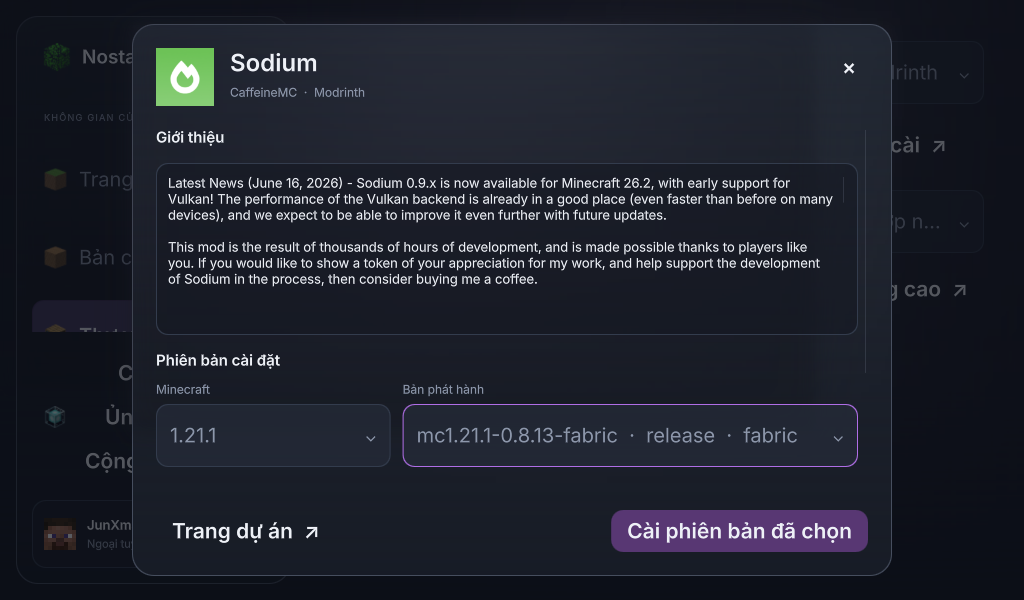
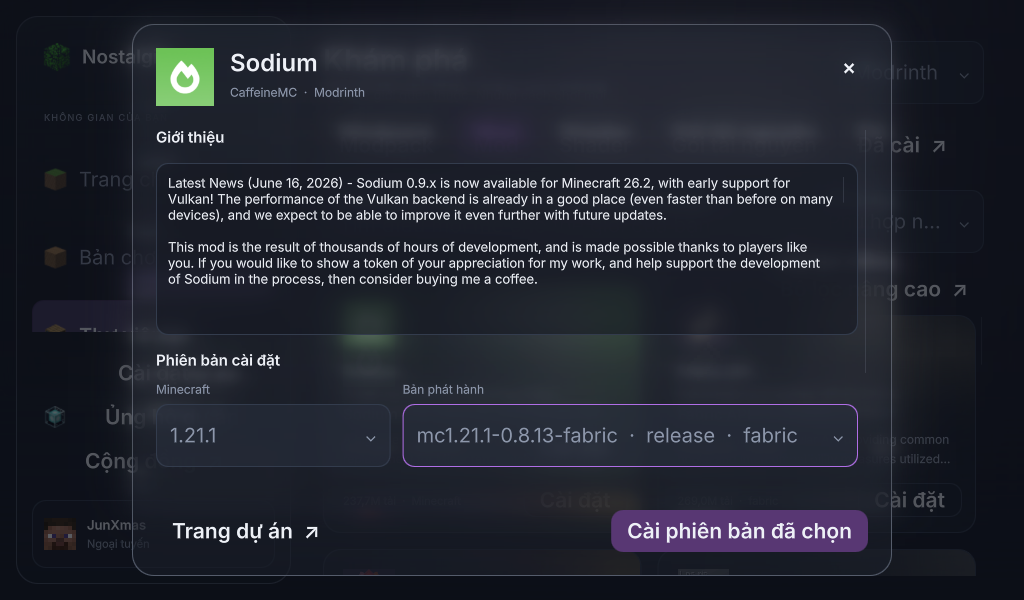
Add translucent scene mica to project preview popups

diff --git a/src/nostalgia/ui/qml/preview/MinimalPreview.qml b/src/nostalgia/ui/qml/preview/MinimalPreview.qml
@@ -25,55 +25,60 @@ Item {
         currentIndex = index;
         advancedLibrary = false;
     }
-    Ambient {
-        id: ambient
-        anchors.fill: parent
-        cinematic: root.loginVisible
-    }
     Item {
+        id: scene
+        objectName: "previewScene"
         anchors.fill: parent
-        visible: !root.loginVisible
-        Navigation {
-            id: navigation
-            objectName: "minimalNavigation"
-            anchors.top: parent.top
-            anchors.bottom: parent.bottom
-            anchors.left: parent.left
-            anchors.margins: 16
-            width: Math.min(275, 212 * Math.max(1, GlassTheme.scale * 0.9))
-            currentIndex: root.currentIndex
-            onNavigate: function (index) {
-                root.navigate(index);
-            }
+        Ambient {
+            id: ambient
+            anchors.fill: parent
+            cinematic: root.loginVisible
         }
-        Loader {
-            id: pages
-            objectName: "minimalPageLoader"
-            anchors.left: navigation.right
-            anchors.leftMargin: 32
-            anchors.right: parent.right
-            anchors.rightMargin: 40
-            anchors.top: parent.top
-            anchors.topMargin: 30
-            anchors.bottom: parent.bottom
-            anchors.bottomMargin: 24
-            source: {
-                if (root.currentIndex === 0)
-                    return "Home.qml";
-                if (root.currentIndex === 1)
-                    return "Instances.qml";
-                if (root.currentIndex === 2)
-                    return root.advancedLibrary ? "../pages/LibraryPage.qml" : "Library.qml";
-                return "../pages/" + ["HomePage.qml", "InstancesPage.qml", "LibraryPage.qml", "AccountsPage.qml", "MultiplayerPage.qml", "LogPage.qml", "SettingsPage.qml"][root.currentIndex];
-            }
-            Connections {
-                target: pages.item
-                ignoreUnknownSignals: true
-                function onNavigate(index) {
+        Item {
+            anchors.fill: parent
+            visible: !root.loginVisible
+            Navigation {
+                id: navigation
+                objectName: "minimalNavigation"
+                anchors.top: parent.top
+                anchors.bottom: parent.bottom
+                anchors.left: parent.left
+                anchors.margins: 16
+                width: Math.min(275, 212 * Math.max(1, GlassTheme.scale * 0.9))
+                currentIndex: root.currentIndex
+                onNavigate: function (index) {
                     root.navigate(index);
                 }
-                function onAdvancedRequested() {
-                    root.advancedLibrary = true;
+            }
+            Loader {
+                id: pages
+                objectName: "minimalPageLoader"
+                anchors.left: navigation.right
+                anchors.leftMargin: 32
+                anchors.right: parent.right
+                anchors.rightMargin: 40
+                anchors.top: parent.top
+                anchors.topMargin: 30
+                anchors.bottom: parent.bottom
+                anchors.bottomMargin: 24
+                source: {
+                    if (root.currentIndex === 0)
+                        return "Home.qml";
+                    if (root.currentIndex === 1)
+                        return "Instances.qml";
+                    if (root.currentIndex === 2)
+                        return root.advancedLibrary ? "../pages/LibraryPage.qml" : "Library.qml";
+                    return "../pages/" + ["HomePage.qml", "InstancesPage.qml", "LibraryPage.qml", "AccountsPage.qml", "MultiplayerPage.qml", "LogPage.qml", "SettingsPage.qml"][root.currentIndex];
+                }
+                Connections {
+                    target: pages.item
+                    ignoreUnknownSignals: true
+                    function onNavigate(index) {
+                        root.navigate(index);
+                    }
+                    function onAdvancedRequested() {
+                        root.advancedLibrary = true;
+                    }
                 }
             }
         }
@@ -92,6 +97,7 @@ Item {
     }
     ProjectDialog {
         id: projectDialog
+        backdrop: scene
         onCreateRequested: function (gameVersion, loaderKind) {
             projectDialog.close();
             createForProject.openDialog();

diff --git a/src/nostalgia/ui/qml/preview/Glass.qml b/src/nostalgia/ui/qml/preview/Glass.qml
@@ -6,21 +6,28 @@ Rectangle {
     default property alias content: holder.data
     property int padding: 24
     property bool frosted: true
+    property Item backdrop: GlassTheme.backdrop
+    property rect backdropRect: Qt.rect(0, 0, -1, -1)
+    property real blurOpacity: 0.60
+    property int blurRadius: 48
+    property real finishOpacity: 1
     readonly property bool shaderAvailable: GraphicsInfo.api !== GraphicsInfo.Software && GraphicsInfo.api !== GraphicsInfo.Unknown
     radius: 24
     color: GlassTheme.glassSurface
     border.width: 1
     border.color: GlassTheme.stroke
-    // Capture only the dedicated background, never the pane itself (no recursion).
+    // Nguồn phải nằm ngoài panel để không thu lại chính hiệu ứng kính.
     ShaderEffectSource {
         id: capture
         anchors.fill: parent
         visible: false
-        sourceItem: GlassTheme.backdrop
+        sourceItem: root.backdrop
         sourceRect: {
-            if (!GlassTheme.backdrop)
+            if (root.backdropRect.width >= 0)
+                return root.backdropRect;
+            if (!root.backdrop)
                 return Qt.rect(0, 0, 1, 1);
-            var p = root.mapToItem(GlassTheme.backdrop, 0, 0);
+            var p = root.mapToItem(root.backdrop, 0, 0);
             return Qt.rect(p.x, p.y, root.width, root.height);
         }
         textureSize: Qt.size(Math.max(1, root.width / 2), Math.max(1, root.height / 2))
@@ -33,12 +40,12 @@ Rectangle {
         visible: root.frosted && root.shaderAvailable
         source: capture
         blurEnabled: true
-        blurMax: 48
+        blurMax: root.blurRadius
         blur: 0.8
         saturation: -0.15
         maskEnabled: true
         maskSource: maskCapture
-        opacity: 0.60
+        opacity: root.blurOpacity
     }
     Rectangle {
         id: mask
@@ -58,6 +65,7 @@ Rectangle {
     Rectangle {
         anchors.fill: parent
         radius: root.radius
+        opacity: root.finishOpacity
         gradient: Gradient {
             GradientStop {
                 position: 0

diff --git a/src/nostalgia/ui/qml/preview/ProjectDialog.qml b/src/nostalgia/ui/qml/preview/ProjectDialog.qml
@@ -18,11 +18,32 @@ Controls.Popup {
     property var details: projectBridge.details
     property string success: ""
     property string openedProject: ""
+    property Item backdrop: null
     signal createRequested(string gameVersion, string loaderKind)
     background: Glass {
+        id: popupMica
+        objectName: "projectMica"
         padding: 0
         radius: 22
-        color: GlassTheme.surface
+        color: "transparent"
+        backdrop: root.backdrop
+        backdropRect: {
+            if (!root.backdrop || !root.parent)
+                return Qt.rect(0, 0, 1, 1);
+            // X/Y của Popup đổi khi mở và resize; mapToItem không tự theo dõi tổ tiên.
+            var origin = root.parent.mapToItem(root.backdrop, root.x, root.y);
+            return Qt.rect(origin.x, origin.y, root.width, root.height);
+        }
+        frosted: root.opened
+        blurOpacity: 0.95
+        blurRadius: 64
+        finishOpacity: 0.45
+        Rectangle {
+            anchors.fill: parent
+            radius: popupMica.radius
+            color: GlassTheme.alpha(GlassTheme.surface, popupMica.shaderAvailable ? 0.45 : 0.94)
+            border.color: GlassTheme.alpha(GlassTheme.text, 0.14)
+        }
     }
     Controls.Overlay.modal: Rectangle {
         color: "#aa080b12"

diff --git a/tests/ui/test_project_popup.py b/tests/ui/test_project_popup.py
@@ -59,6 +59,14 @@ def find_visual(root_item: Any, name: str) -> Any:
     return None
 
 
+def assert_mica_alignment(root_item: Any) -> None:
+    QTest.qWait(30)
+    mica = find_control(root_item, "projectMica")
+    origin = mica.mapToScene(QPointF())
+    assert mica.property("backdropRect").x() == pytest.approx(origin.x())
+    assert mica.property("backdropRect").y() == pytest.approx(origin.y())
+
+
 @pytest.mark.parametrize("content_kind", ["mod", "resourcepack", "shader", "modpack"])
 def test_card_popup_selects_version_and_installs(
     tmp_path: Path,
@@ -156,6 +164,7 @@ def test_card_popup_selects_version_and_installs(
         assert find_control(root_item, "projectAbout").property("text") == "About\nNội dung đầy đủ"
         # Popup covers the whole window, including the navigation, and is centred.
         assert dialog.property("modal")
+        assert_mica_alignment(root_item)
         assert dialog.property("x") + dialog.property("width") / 2 == pytest.approx(
             view.width() / 2
         )
@@ -203,6 +212,7 @@ def test_card_popup_selects_version_and_installs(
         wait_until(lambda: not project_bridge.details["loading"])
         assert dialog.property("width") < view.width()
         assert dialog.property("height") < view.height()
+        assert_mica_alignment(root_item)
         assert not warnings
     finally:
         bridge.cancelSignIn()
